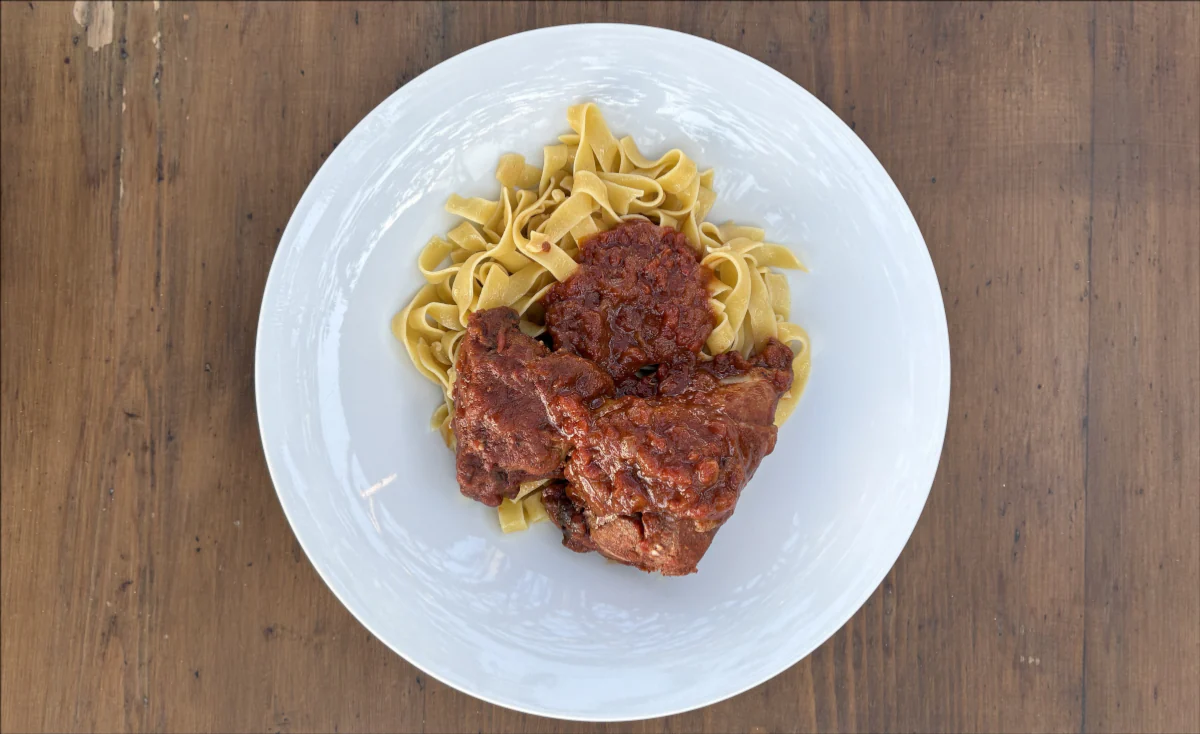
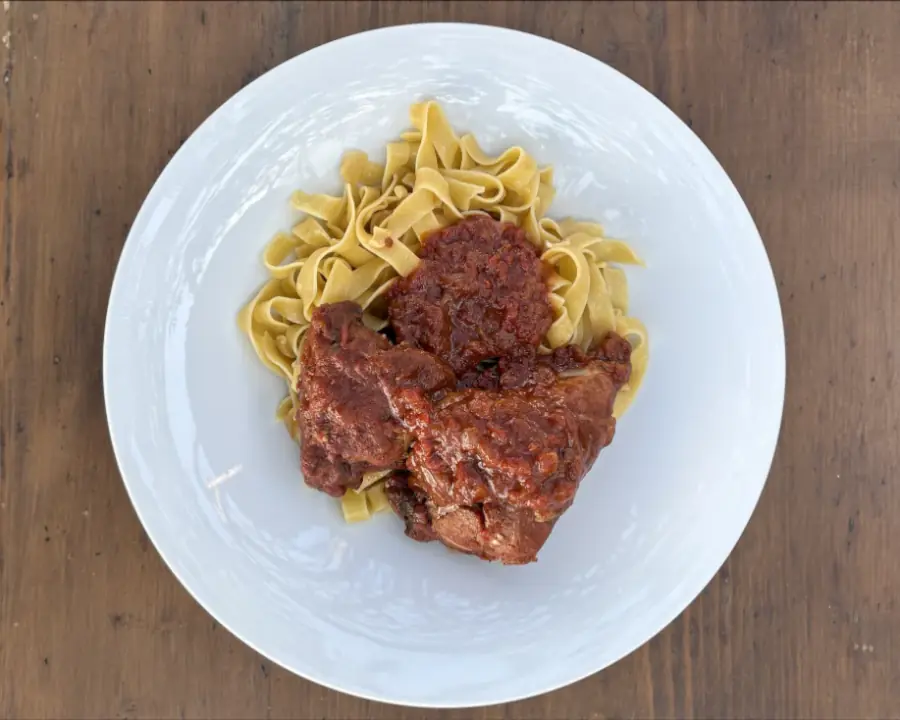
imges

diff --git a/js/menu.js b/js/menu.js
@@ -40,9 +40,9 @@ async function loadMenu() {
 }
 const categoryImages = {
     "Ορεκτικά": "../../assets/images/patates.webp",
-    "Σαλάτες": "../../assets/images/xwriatikh.webp",
+    "Σαλάτες": "../../assets/images/ntakos.webp",
     "Μαγειρευτά": "../../assets/images/kokoras-lazania-home.webp",
-    "Της ώρας": "../../assets/images/mprizola.webp",
+    "Της ώρας": "../../assets/images/souvlaki-kotopoulo.webp",
     "Θαλασσινά": "../../assets/images/xtapodi.webp",
     "Επιδόρπια": "../../assets/images/koufeto.webp",
     "Κρασιά": "../../assets/images/.webp",

diff --git a/css/home.css b/css/home.css
@@ -473,7 +473,7 @@ body.dark .sk-ww-google-reviews {
 
 .menu-item img {
   width: 100%;
-  height: 265px;
+  height: 260px;
   object-fit: cover;
   display: block;
   transition: transform 0.55s cubic-bezier(0.4, 0, 0.2, 1);

diff --git a/el/index.html b/el/index.html
@@ -231,7 +231,7 @@
             </div>
           </div>
           <div class="menu-item">
-            <img src="/assets/images/kokoras-lazania.webp" alt="Κόκορας Μήλου" width="300" height="200"
+            <img src="/assets/images/kokoras-lazania-home.webp" alt="Κόκορας Μήλου" width="300" height="200"
               loading="lazy">
             <div class="menu-item-body">
               <h3>Κόκορας Μήλου</h3>